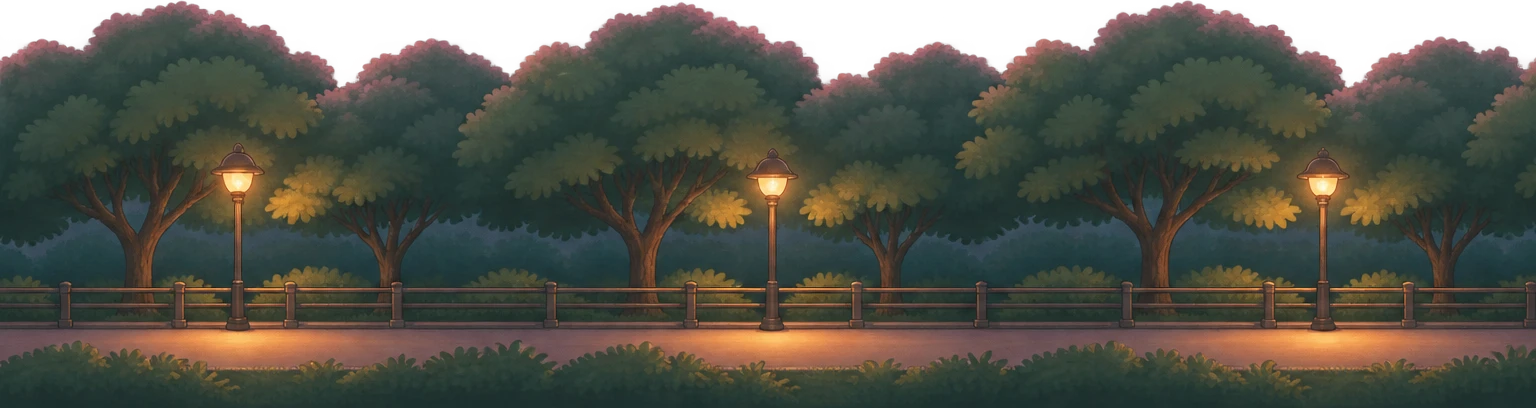
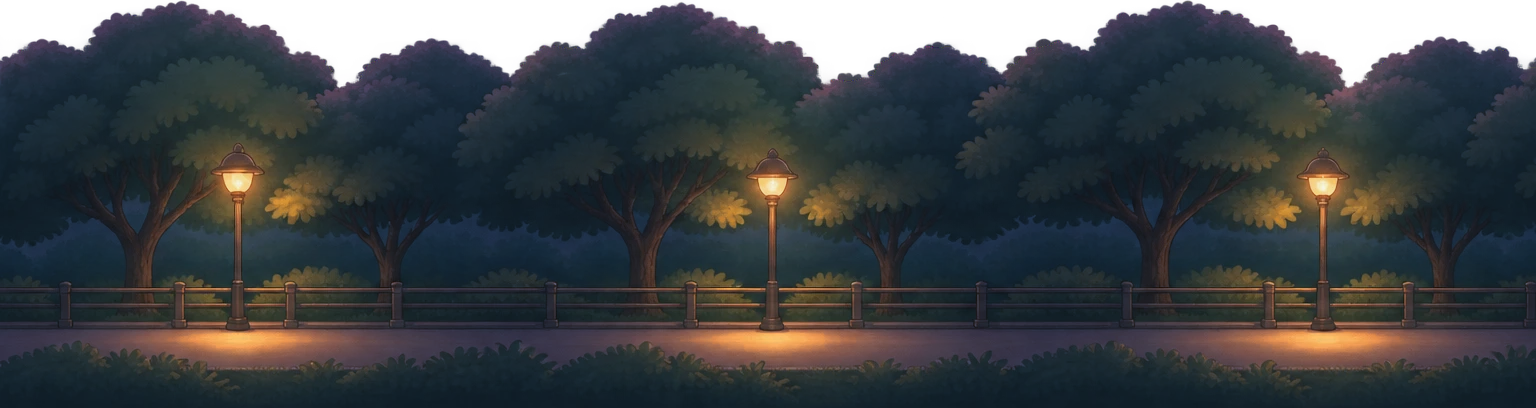
Room test: blue-hour background, puppet-theater layer rise, Namsan in window
- new blue-hour background layers (sky, skyline, Namsan, apartments, river, banks, window view, foreground rooftops); lavender rims graded to navy, fills matched
- background layers rise from below, nearest first, as the room comes together
- Namsan layer lowered so the tower sits inside the window, apartments lowered so the ridge shows; tower clipped at the window top edge
- optional night-sky overlay in the sky shader (off now that the new sky is in)

diff --git a/src/components/roomtest/RoomTest.jsx b/src/components/roomtest/RoomTest.jsx
@@ -100,7 +100,10 @@ const DISC_R = 0.15;              // LP 반지름 (m)
 const ARM_SWING = -0.42;          // 톤암이 판 위로 들어가는 각도 (rad, 톤암 기둥 기준)
 const ROOM_ZOOM = 1.2;             // 방 완성 구도를 기준 카메라보다 이만큼 당김 (시야각만 좁힘 → 배경 레이어 원근 · 정렬은 그대로, 방이 화면을 더 채움)
 const FOV0 = 30;                  // 이야기 카메라 시야. 방 완성 칸에서는 GLB 카메라 시야(약 17°)로 바뀜
-const ENV_IN = [0.46, 0.10];      // 바깥 배경(하늘·도시·한강)이 서서히 나타나는 구간 (방 완성 구도로 다가갈 때)
+const ENV_IN = [0.46, 0.10];
+// 배경 레이어 등장: 인형극 무대 배경처럼 가까운 레이어부터 아래에서 위로 스르륵 (레이어마다 STAGGER 만큼 늦게, DUR 동안)
+//  떨어진 깊이 = 레이어까지 거리 × DROP (화면에서 대략 같은 높이만큼 내려가 있다 올라옴)
+const LAYER_RISE = { start: 0.46, stagger: 0.014, dur: 0.075, drop: 0.11 };      // 바깥 배경(하늘·도시·한강)이 서서히 나타나는 구간 (방 완성 구도로 다가갈 때)
 const HEMI_SKY = new THREE.Color("#9fb0d8"), HEMI_GROUND = new THREE.Color("#2a2230"), MOON = new THREE.Color("#8fa6d8");
 const DUSK = {
   hemiSky: new THREE.Color(LAYER_CFG.light.hemiSky), hemiGround: new THREE.Color(LAYER_CFG.light.hemiGround),
@@ -226,6 +229,7 @@ export default function RoomTest() {
     renderer.setPixelRatio(Math.min(window.devicePixelRatio, DPR_MAX));
     renderer.outputColorSpace = THREE.SRGBColorSpace;
     renderer.toneMapping = THREE.NeutralToneMapping;
+    renderer.localClippingEnabled = true;   // 남산 레이어를 창문 위 테두리에서 잘라 냄 (벽 위로 타워가 삐져나오지 않게)
     host.appendChild(renderer.domElement);
     // 화면 후처리 (빛 번짐 · 틸트시프트 · 비네트). ?post=0 이면 끔
     const post = createPost(renderer);
@@ -876,6 +880,40 @@ export default function RoomTest() {
       const ek = easeInOut(seg(p, ENV_IN));
       st.env.night(nk);                                   // 창문 안 남산: 창문 벽이 다 선 뒤 밝아짐
       st.env.fade(ek);                                    // 바깥 배경: 방 완성 구도로 다가가며
+      // 레이어가 가까운 것부터 아래에서 올라옴 (fade 가 정한 투명도에 레이어별 등장 정도를 곱함)
+      if (!st.layerRise) {
+        const byId = Object.fromEntries(LAYER_CFG.layers.map((L) => [L.id, L]));
+        const roomCam = st.rig.target.clone().addScaledVector(new THREE.Vector3().setFromSpherical(st.base.sph).normalize(), st.base.sph.radius);   // 방 완성 칸 카메라 자리
+        st.layerRise = st.env.group.children.filter((g) => g.name.startsWith("env_") && byId[g.name.slice(4)])
+          .map((g) => {
+            const mats = [];
+            g.traverse((o) => { if (o.isMesh) mats.push(o.material); });
+            return { g, D: byId[g.name.slice(4)].D, baseY: g.position.y, mats, dist: g.getWorldPosition(new THREE.Vector3()).distanceTo(roomCam) };
+          })
+          .sort((a, b) => a.D - b.D);
+      }
+      st.env.group.visible = p >= LAYER_RISE.start;
+      st.layerRise.forEach((L, i) => {
+        const k = st.reduced ? ek : easeInOut(seg(p, [LAYER_RISE.start + i * LAYER_RISE.stagger, LAYER_RISE.dur]));
+        L.g.position.y = L.baseY - (1 - k) * L.dist * LAYER_RISE.drop;
+        const op = Math.min(1, k * 2.5);   // 올라오기 시작하면 금방 또렷하게 (전체 fade 와 따로 → 올라오는 움직임이 보이게)
+        for (const m of L.mats) { m.opacity = op; m.transparent = m.alphaTest > 0 || op < 1; m.depthWrite = op >= 1; }
+      });
+      // 남산은 창문 너머로만: 카메라와 창문 위 테두리를 지나는 평면 위쪽은 잘라 냄 (마우스 시차로 카메라가 움직여도 매 프레임 다시)
+      if (st.env.glass) {
+        if (!st.namsanClip) {
+          st.namsanClip = new THREE.Plane();
+          st.env.group.getObjectByName("env_h_namsan")?.traverse((o) => { if (o.isMesh && o.material.map) o.material.clippingPlanes = [st.namsanClip]; });
+        }
+        const gl = st.env.glass, gp = gl.geometry.parameters;
+        gl.updateWorldMatrix(true, false);
+        const a = new THREE.Vector3(-gp.width / 2, gp.height / 2, 0).applyMatrix4(gl.matrixWorld);
+        const b = new THREE.Vector3(gp.width / 2, gp.height / 2, 0).applyMatrix4(gl.matrixWorld);
+        st.namsanClip.setFromCoplanarPoints(storyCam.position, a, b);
+        // 창문 아래쪽(창 가운데)이 남는 쪽이 되게 방향을 맞춤
+        const mid = new THREE.Vector3(0, -gp.height / 2, 0).applyMatrix4(gl.matrixWorld);
+        if (st.namsanClip.distanceToPoint(mid) < 0) st.namsanClip.negate();
+      }
       // 밤 주변광·창 쪽 달빛 → 바깥 배경이 나타나며 노을 조명으로 (env-layers.json 의 light)
       hemi.color.copy(HEMI_SKY).lerp(DUSK.hemiSky, ek);
       hemi.groundColor.copy(HEMI_GROUND).lerp(DUSK.hemiGround, ek);

diff --git a/src/components/envtest/envCore.js b/src/components/envtest/envCore.js
@@ -171,15 +171,22 @@ export function layerColors(L) {
 // 하늘: 화면 전체를 덮는 판. 깊이는 맨 뒤(1.0)라 방·레이어 뒤에만 보이고, 투명도로 서서히 나타낼 수 있음
 // 화면 높이 v(0 아래 ~ 1 위) 에 이미지 높이 off + v × scale 이 옴 (이미지 밖은 끝 색이 늘어남)
 // grade: { gain, sat } — 하늘 밝기 · 채도 배율 (방보다 하늘이 더 밝고 진해 눈이 하늘로 먼저 가지 않게). 없으면 그림 그대로
+//  grade.night: { top, mid, from, to, amount } — 화면 위쪽을 남색 밤하늘로 덮음 (from~to: 화면 높이 0 아래 ~ 1 위, 그 사이로 점점).
+//   아래쪽 스카이라인 뒤의 노을 띠는 그대로 남아, 주황 방과 보색인 남색 하늘 + 지평선의 얇은 노을이 됨
 export function createSkyQuad(url, off, scale, blur = 0, grade = null) {
   const mat = new THREE.ShaderMaterial({
-    uniforms: { map: { value: null }, uOff: { value: off }, uScale: { value: scale }, uOpacity: { value: 1 }, uGrade: { value: new THREE.Vector2(grade?.gain ?? 1, grade?.sat ?? 1) } },
+    uniforms: { map: { value: null }, uOff: { value: off }, uScale: { value: scale }, uOpacity: { value: 1 }, uGrade: { value: new THREE.Vector2(grade?.gain ?? 1, grade?.sat ?? 1) },
+      uTop: { value: new THREE.Color(grade?.night?.top ?? "#000000") }, uMid: { value: new THREE.Color(grade?.night?.mid ?? "#000000") },
+      uNight: { value: new THREE.Vector3(grade?.night?.from ?? 1, grade?.night?.to ?? 1.01, grade?.night?.amount ?? 0) } },
     vertexShader: "varying vec2 vUv; void main() { vUv = uv; gl_Position = vec4(position.xy, 1.0, 1.0); }",
-    fragmentShader: `uniform sampler2D map; uniform float uOff, uScale, uOpacity; uniform vec2 uGrade; varying vec2 vUv;
+    fragmentShader: `uniform sampler2D map; uniform float uOff, uScale, uOpacity; uniform vec2 uGrade; uniform vec3 uTop, uMid, uNight; varying vec2 vUv;
       void main() {
         vec2 uv = vec2(vUv.x, clamp(uOff + vUv.y * uScale, 0.001, 0.999));
         vec3 c = texture2D(map, uv).rgb;
         c = mix(vec3(dot(c, vec3(0.2126, 0.7152, 0.0722))), c, uGrade.y) * uGrade.x;
+        float nk = smoothstep(uNight.x, uNight.y, vUv.y) * uNight.z;
+        vec3 navy = mix(uMid, uTop, smoothstep(uNight.x, 1.0, vUv.y));
+        c = mix(c, navy, nk);
         gl_FragColor = vec4(c, uOpacity);
         #include <colorspace_fragment>
       }`,
